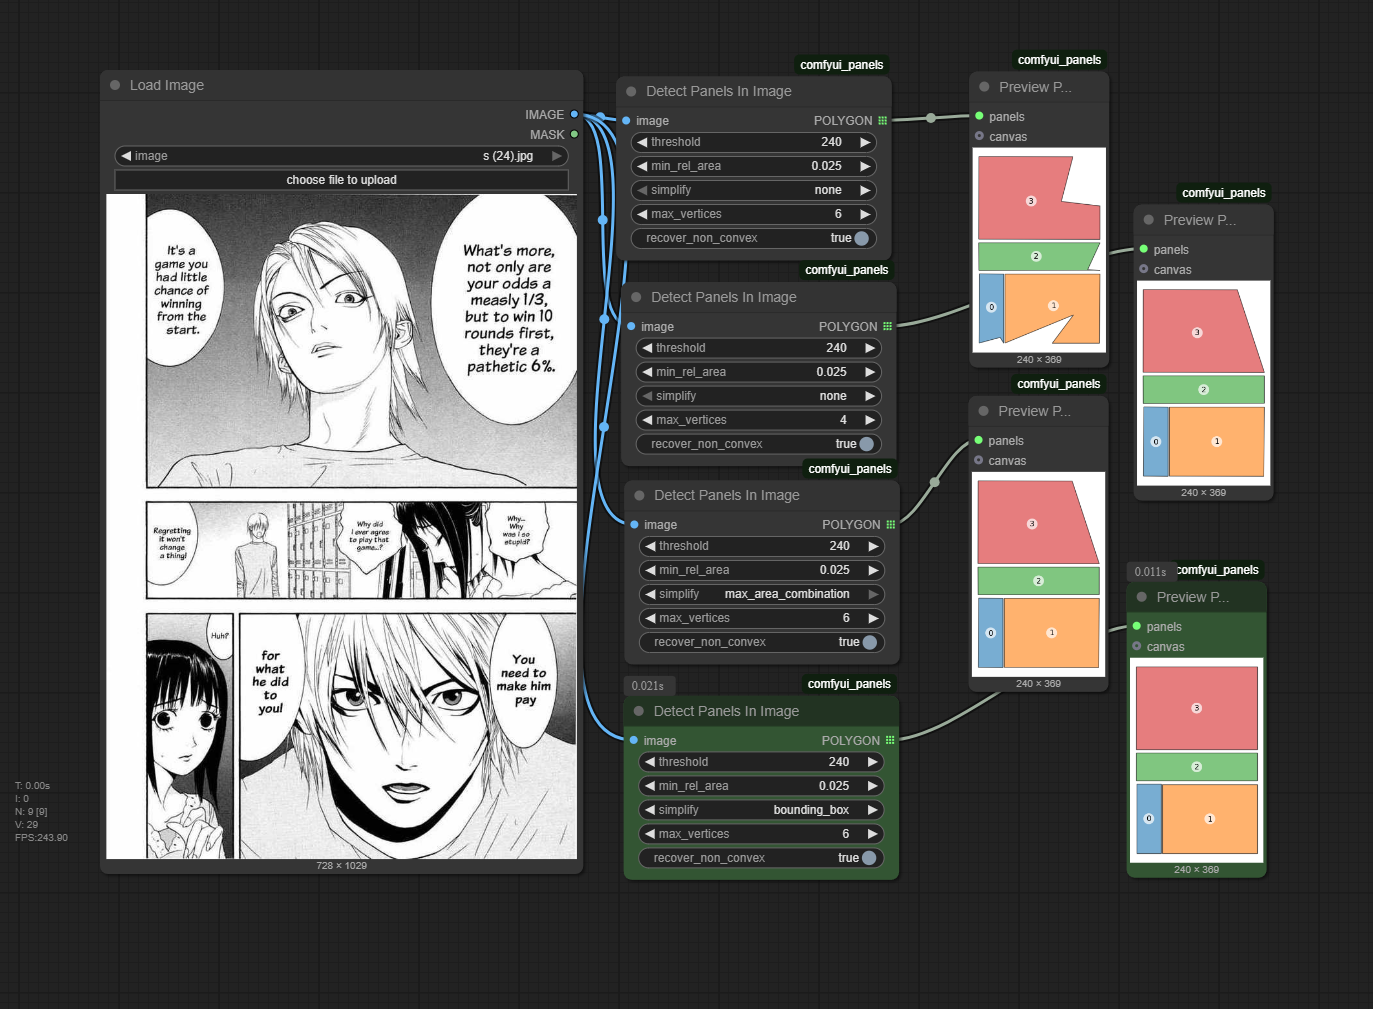
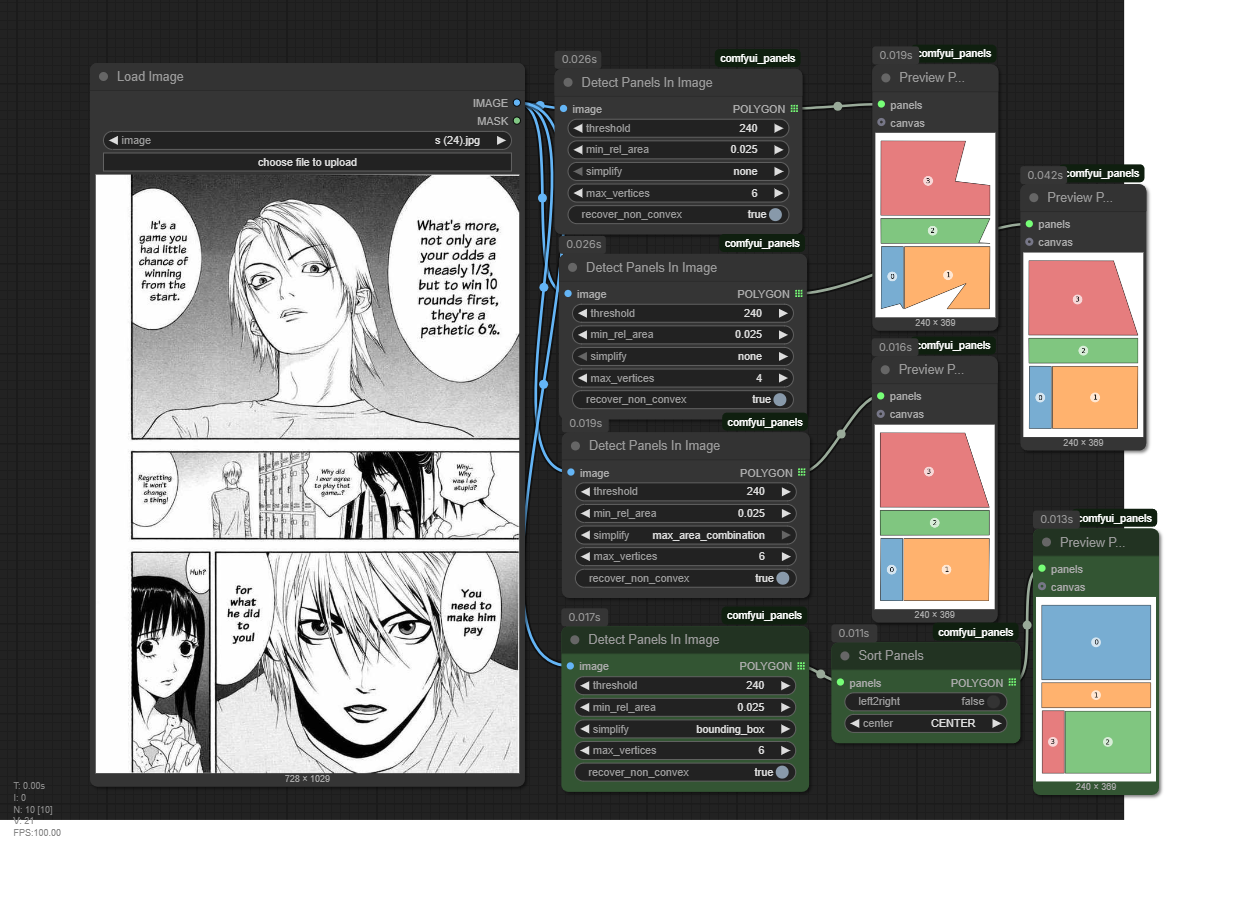
panel sorting & updated workflows
- added SortPanels node to custom nodes
- updated Manga Panel Extration Example workflows
- added new workflow: WAN2.2 I2V Oneshot Animate All Panels Sequentially with FadeIn
- updated project version to 1.1.0

diff --git a/nodes.py b/nodes.py
@@ -1598,6 +1598,89 @@ class DetectPanelsInImage:
         return (panels,)
 
 
+class SortPanels:
+
+    CENTER_FUNCS = {
+        "TOP-LEFT": lambda bxmin, bymin, bxmax, bymax: (bxmin, bymin),
+        "CENTER": lambda bxmin, bymin, bxmax, bymax: ( (bxmin + bxmax)/2, (bymin + bymax)/2 ),
+        "BOTTOM-RIGHT": lambda bxmin, bymin, bxmax, bymax: (bxmax, bymax),
+    }
+
+    @classmethod
+    def INPUT_TYPES(cls):
+        return {
+            "required": {
+                "panels": (IO_Types.PANEL,),
+                "left2right": ("BOOLEAN", {"default": True}),
+                "center": (list(cls.CENTER_FUNCS.keys()), {"default": "TOP-LEFT",
+                                                           "tooltip": "point used for sorting."})
+            }
+        }
+
+    INPUT_IS_LIST = True
+    CATEGORY = CATEGORY_PATH
+    RETURN_TYPES = (IO_Types.PANEL,)
+    OUTPUT_IS_LIST = (True,)
+    OUTPUT_TOOLTIPS = ("Panels (Shapely Polygons)",)
+    FUNCTION = "exec"
+    DESCRIPTION = """
+    Simple algo that attempts to sort panels by reading order according to 
+    their bounds center coordinates in quantized space.
+    """
+
+    def exec(self, panels, left2right, center):
+        if not panels:
+            return ([],)
+
+        if isinstance(left2right, list):
+            left2right = left2right[0]
+
+        if isinstance(center, list):
+            center = center[0]
+
+        # find global bounding box
+        minx = min(p.bounds[0] for p in panels)
+        miny = min(p.bounds[1] for p in panels)
+        maxx = max(p.bounds[2] for p in panels)
+        maxy = max(p.bounds[3] for p in panels)
+
+        n = len(panels)
+        grid_size = n  # number of grid cells in one dimension
+        # if there is a bias towards columns or rows only, then non-quantized coordinates should suffice
+        # thus is better to have a somewhat small n, under the supposition the "grid like" layout is balanced
+
+        # quantize space
+        # compute grid cell dimensions
+        cell_w = (maxx - minx) / grid_size if maxx != minx else 1.0
+        cell_h = (maxy - miny) / grid_size if maxy != miny else 1.0
+
+        # assign each polygon to a grid cell
+        poly_cells = []
+        center_func = self.CENTER_FUNCS[center]
+        for i, p in enumerate(panels):
+            x, y = center_func(*p.bounds)
+
+            # compute grid indices (col, row)
+            col = int((x - minx) // cell_w)
+            row = int((maxy - y) // cell_h)  # top-to-bottom order
+
+            # clamp indices
+            col = max(0, min(grid_size - 1, col))
+            row = max(0, min(grid_size - 1, row))
+
+            poly_cells.append((row, col, y, x, i, p))
+
+        # sort by row, then by column (reading order)
+        if left2right:
+            poly_cells.sort(key=lambda t: (-t[0], t[1], t[2], t[3]))  # row, col, x, y(desc)
+        else:
+            poly_cells.sort(key=lambda t: (-t[0], -t[1], t[2], -t[3]))  # reverse col order
+
+        # extract sorted polygons
+        sorted_polygons = [t[-1] for t in poly_cells]
+        return (sorted_polygons,)
+
+
 class InvertCardinals:
     @classmethod
     def INPUT_TYPES(cls):
@@ -1789,6 +1872,7 @@ NODE_CLASS_MAPPINGS = {
     "bmad_GridPanelLayoutGenerator": GridPanelLayoutGenerator,
     "bmad_MutatePanelLayout": MutatePanelLayout,
     "bmad_DetectPanelsInImage": DetectPanelsInImage,
+    "bmad_SortPanels": SortPanels,
 
     "bmad_PolygonBounds": PolygonBounds,
     "bmad_PolygonUnwrappedBounds": PolygonUnwrappedBounds,
@@ -1847,6 +1931,7 @@ NODE_DISPLAY_NAME_MAPPINGS = {
     "bmad_GridPanelLayoutGenerator": "Grid Panel Layout Generator",
     "bmad_MutatePanelLayout": "Mutate Panel Layout",
     "bmad_DetectPanelsInImage": "Detect Panels In Image",
+    "bmad_SortPanels": "Sort Panels",
 
     "bmad_PolygonBounds": "Polygon.bounds",
     "bmad_PolygonUnwrappedBounds": "Polygon.bounds (unwrapped)",
